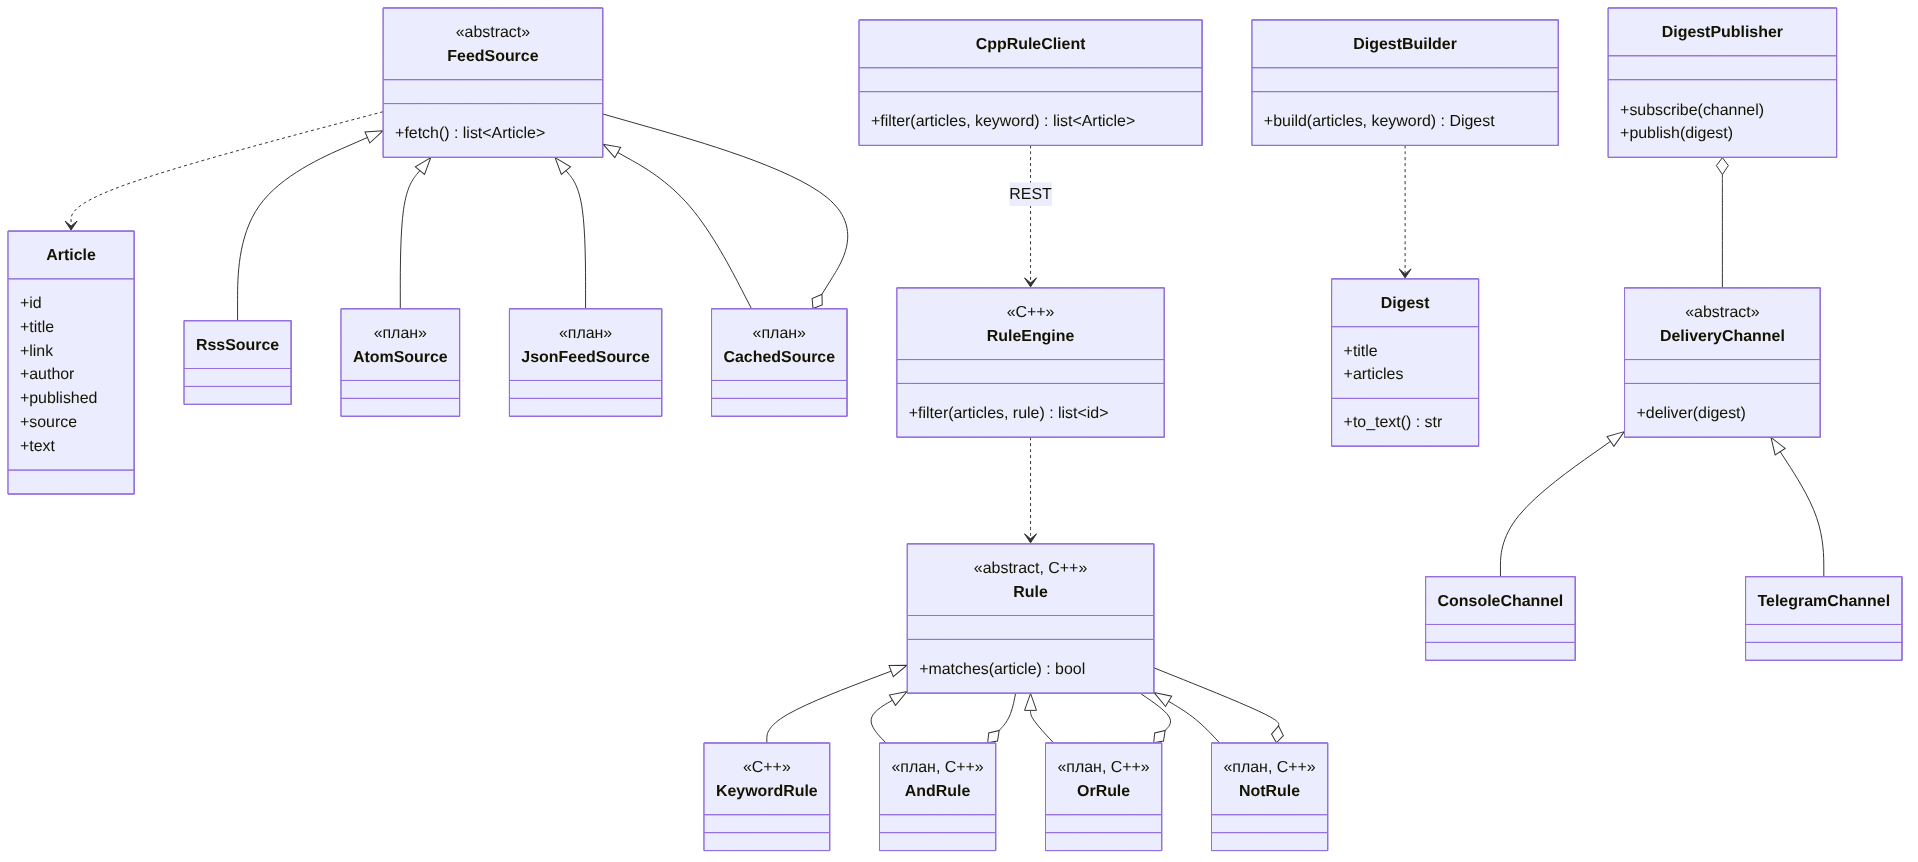
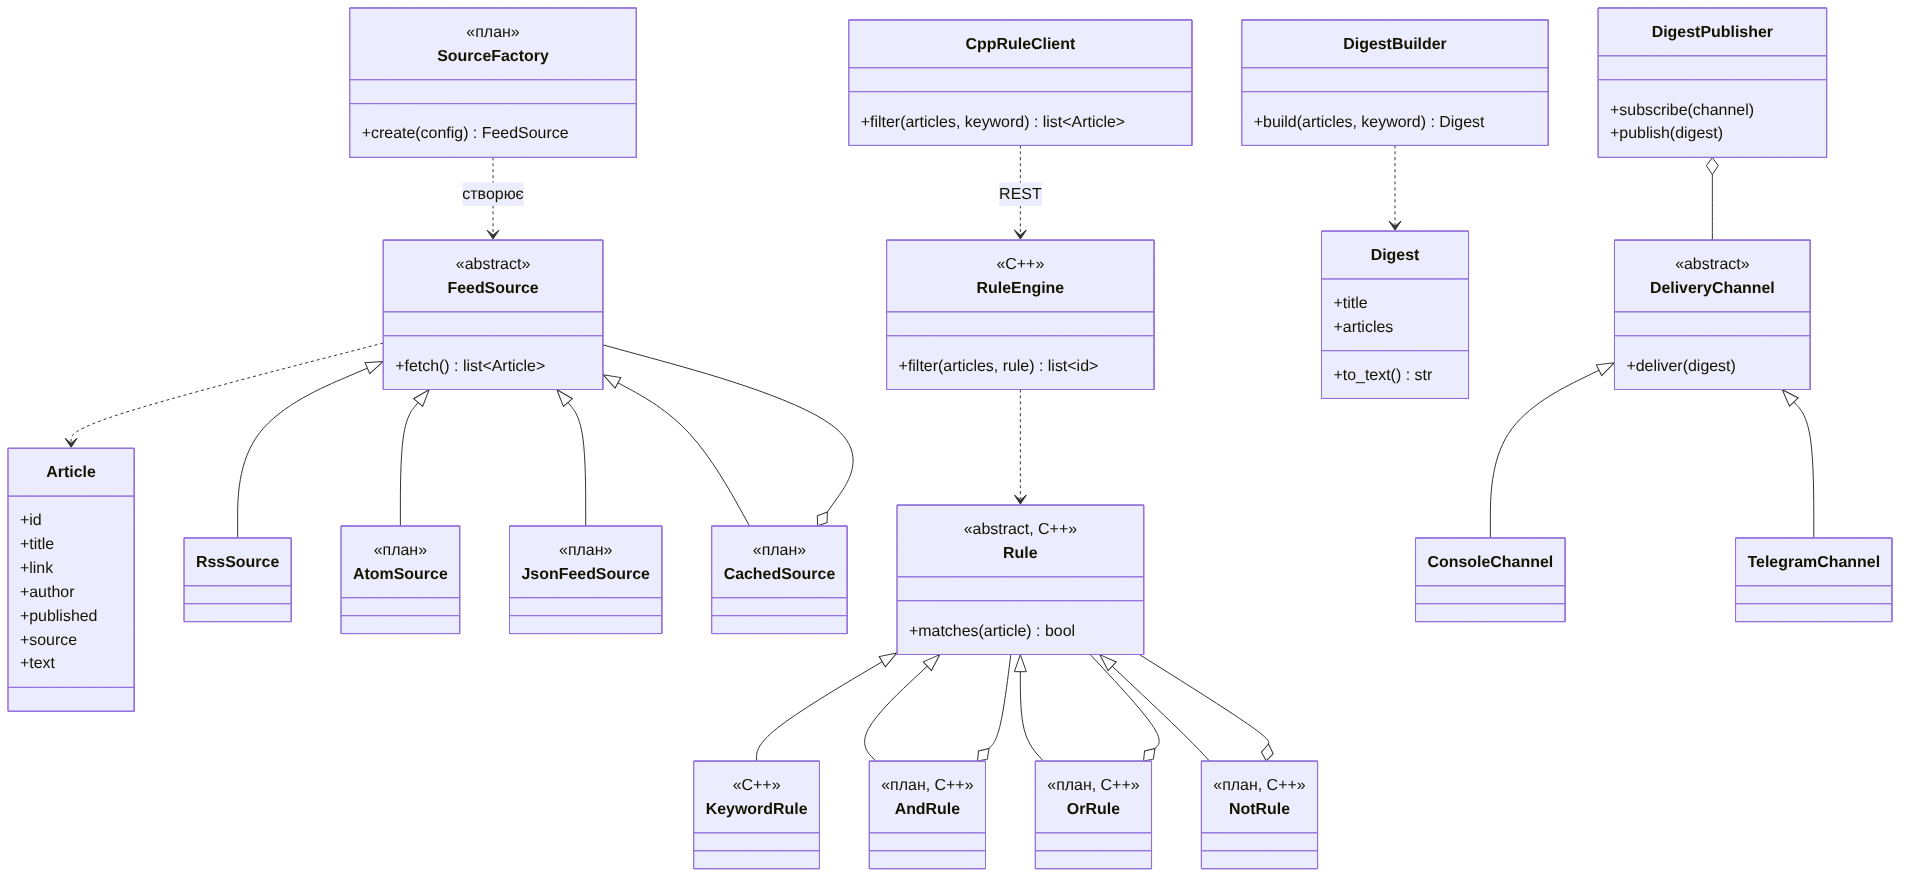
Describe multiple sources plan

diff --git a/docs/patterns.md b/docs/patterns.md
@@ -127,3 +127,30 @@ classDiagram
     CachedSource o-- FeedSource
     CachedSource --> ArticleCache
 ```
+
+## Factory Method (породжувальний, план)
+
+Джерела описані в конфігу полем `type`. `SourceFactory` за ним створює потрібний клас, тому код, який завантажує новини, працює тільки з `FeedSource` і не знає про конкретні формати. Новий формат додається новим класом і одним рядком у фабриці.
+
+```mermaid
+classDiagram
+    class SourceFactory {
+        <<план>>
+        +create(config) FeedSource
+    }
+    class FeedSource {
+        <<abstract>>
+        +fetch() list~Article~
+    }
+    class RssSource
+    class AtomSource {
+        <<план>>
+    }
+    class JsonFeedSource {
+        <<план>>
+    }
+    SourceFactory ..> FeedSource : створює
+    FeedSource <|-- RssSource
+    FeedSource <|-- AtomSource
+    FeedSource <|-- JsonFeedSource
+```
